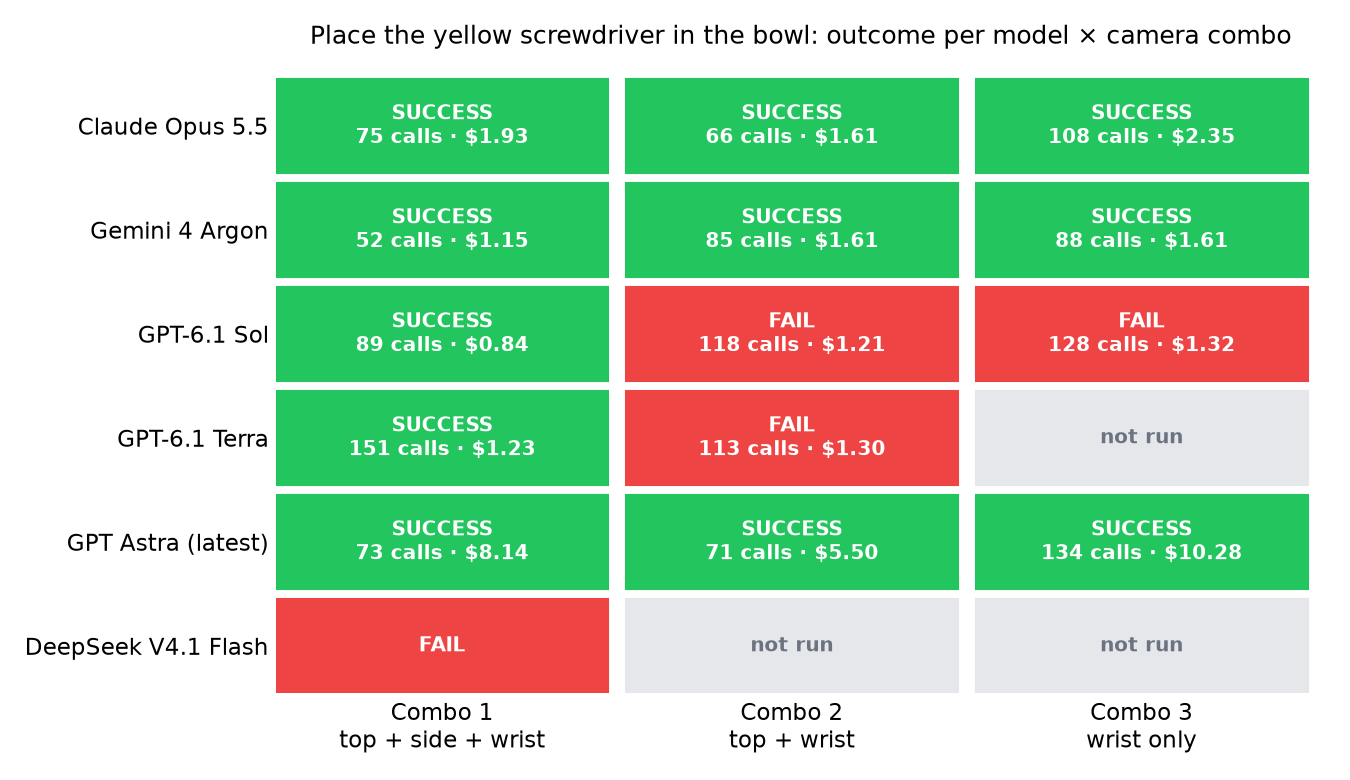
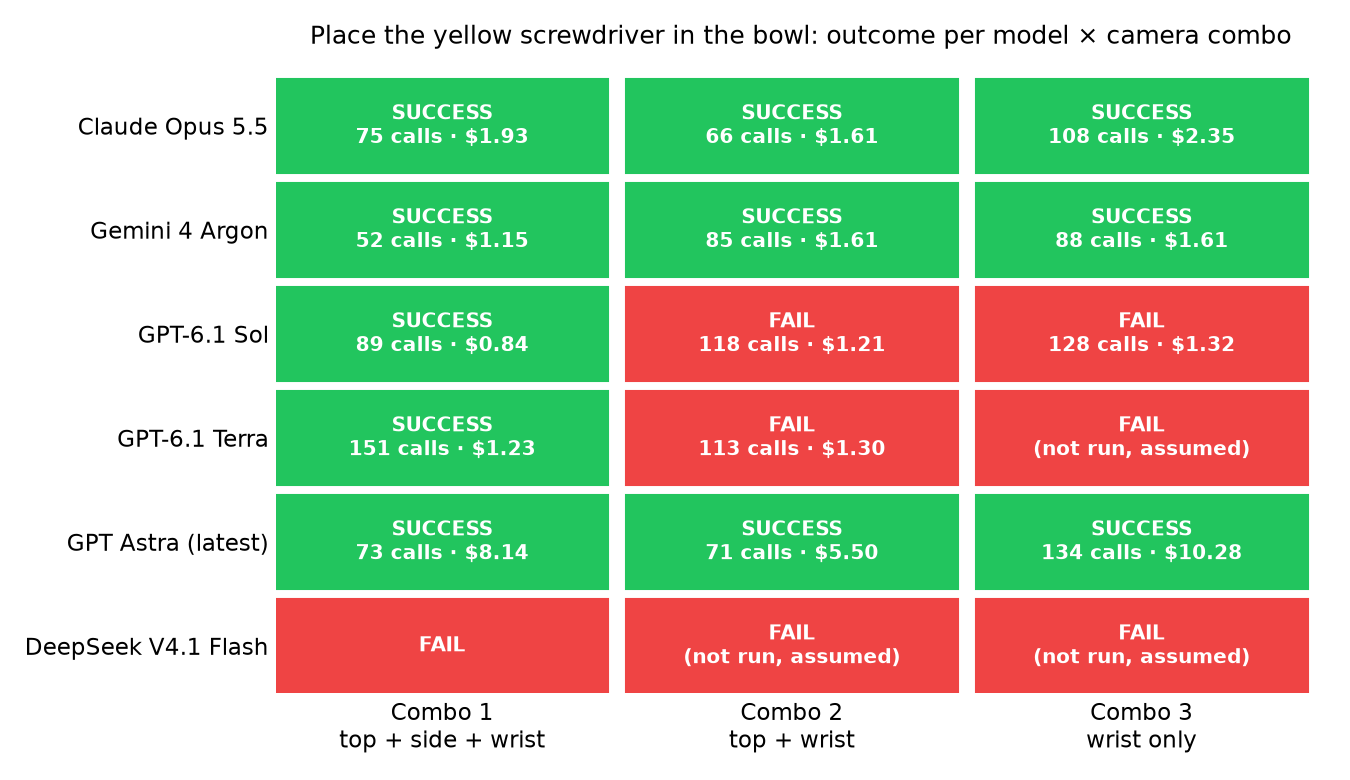
Score unrun combos as fails (Terra c3, DeepSeek c2/c3)

Changed region(s): [[0.4356, 0.7692, 0.9956, 0.8923], [0.7156, 0.4923, 0.9956, 0.6462]]

diff --git a/analysis/make_charts.py b/analysis/make_charts.py
@@ -70,6 +70,8 @@ for i, m in enumerate(MODELS):
         st = o["outcome"] if o else "not_run"
         ax.add_patch(plt.Rectangle((j, len(MODELS) - 1 - i), 0.95, 0.9, color=cmap[st]))
         txt = {"success": "SUCCESS", "fail": "FAIL", "not_run": "not run"}[st]
+        if o and o.get("assumed"):
+            txt = "FAIL\n(not run, assumed)"
         r = results.get(o["run_id"]) if o and o["run_id"] else None
         sub = f"\n{r['llm_calls']} calls · ${r['cost_usd_official_list_price']:.2f}" if r else ""
         ax.text(j + 0.475, len(MODELS) - 1 - i + 0.45, txt + sub, ha="center", va="center",
@@ -83,10 +85,10 @@ fig.tight_layout(); fig.savefig(FIG / "01_outcome_matrix.png"); plt.close(fig)
 
 # ---------------------------------------------------------------- 2. success rate by combo
 fig, ax = plt.subplots(figsize=(8, 4.2))
-for incl, off, col, lab in ((False, -0.2, "#3B82F6", "5 models with logs (DeepSeek excluded)"), (True, 0.2, "#94A3B8", "incl. DeepSeek combo 1 (fail)")):
+for incl, off, col, lab in ((False, -0.2, "#3B82F6", "runs with logs only"), (True, 0.2, "#94A3B8", "all 6 models (unrun cells counted as fail)")):
     rates, ns = [], []
     for c in (1, 2, 3):
-        cs = [o for o in outcomes if o["combo"] == c and o["outcome"] != "not_run" and (incl or not o["model"].startswith("deepseek"))]
+        cs = [o for o in outcomes if o["combo"] == c and (incl or o["run_id"] in results)]
         rates.append(100 * sum(o["outcome"] == "success" for o in cs) / len(cs)); ns.append(len(cs))
     b = ax.bar(np.arange(3) + off, rates, 0.38, color=col, label=lab)
     for x, r, n in zip(np.arange(3) + off, rates, ns):
@@ -237,7 +239,7 @@ for o in outcomes:
                      f"{t['total_input']:,} ({t['cache_read']:,}) | {t['total_output']:,} ({t['reasoning']:,}) | "
                      f"${r['cost_usd_official_list_price']:.2f} | {active[o['run_id']]} | {o['grasp_attempts']} ({o['failed_grasps']}) |")
     else:
-        lines.append(f"| {LABEL[o['model']]} | {o['combo']} | {'❌ fail' if o['outcome'] == 'fail' else '— not run'} | — | — | — | — | — | — |")
+        lines.append(f"| {LABEL[o['model']]} | {o['combo']} | {'❌ fail (assumed, not run)' if o.get('assumed') else '❌ fail (no logs)'} | — | — | — | — | — | — |")
 (ROOT / "analysis" / "summary_table.md").write_text("\n".join(lines) + "\n")
 print("\n".join(lines))
 print("figures:", sorted(p.name for p in FIG.iterdir()))

diff --git a/README.md b/README.md
@@ -8,12 +8,12 @@
 ![Outcome matrix](docs/figures/01_outcome_matrix.png)
 
 ## TL;DR
-- **All three cameras worked best.** With top-down + side + wrist cameras, **5 of 5** models succeeded. With top + wrist, 3 of 5 did,
-  and with the wrist camera alone, 3 of 4. DeepSeek is excluded from these counts (only combo 1 was run, and it failed).
+- **All three cameras worked best.** Counting every unrun combo as a fail (operator rule), 6 models × 3 combos gives: top + side + wrist
+  **5 of 6** succeeded, top + wrist 3 of 6, and wrist only 3 of 6. Among runs that actually happened: 5/5, 3/5 and 3/4.
 - **Fewer cameras meant more failed grasps.** The average was 0.4 failed grasps per run with 3 cameras, 1.0 with 2, and **3.0** with the
   wrist only. LLM calls rose from about 88 to about 114 per run, and active time from about 17 to about 26 minutes.
 - **Claude Opus 5.5, Gemini 4 Argon and GPT Astra succeeded on all 3 combos.** GPT-6.1 Sol and Terra only succeeded with all three
-  cameras. DeepSeek V4.1 Flash (max effort) failed combo 1 by going past the 200-call budget (280 calls); its other combos were not run.
+  cameras. DeepSeek V4.1 Flash (max effort) failed combo 1 by going past the 200-call budget (280 calls); its other two combos were not run and count as fails.
 - **Cost:** the 14 logged runs cost **$40.08** at the providers' own list prices, using 94.9 M input tokens (mostly cached) and 0.32 M
   output tokens.
   - Gemini 4 Argon was the cheapest reliable model at $1.15–1.61 per run.
@@ -94,13 +94,13 @@ Each prompt asks the model to:
 | GPT-6.1 Sol | 3 | ❌ fail | 128 | 7,841,707 (7,741,198) | 29,019 (9,553) | $1.32 | 38.9 | 6 (6) |
 | GPT-6.1 Terra | 1 | ✅ success | 151 | 11,827,464 (11,413,587) | 28,152 (8,520) | $1.23 | 33.6 | 2 (1) |
 | GPT-6.1 Terra | 2 | ❌ fail | 113 | 10,526,238 (9,992,401) | 25,912 (8,027) | $1.30 | 14.2 | 2 (2) |
-| GPT-6.1 Terra | 3 | — not run | — | — | — | — | — | — |
+| GPT-6.1 Terra | 3 | ❌ fail (assumed, not run) | — | — | — | — | — | — |
 | GPT Astra (latest) | 1 | ✅ success | 73 | 5,524,890 (5,353,888) | 13,075 (3,605) | $8.14 | 14.9 | 1 (0) |
 | GPT Astra (latest) | 2 | ✅ success | 71 | 3,638,637 (3,548,317) | 16,459 (3,190) | $5.50 | 20.5 | 2 (1) |
 | GPT Astra (latest) | 3 | ✅ success | 134 | 7,856,235 (7,764,237) | 27,394 (11,089) | $10.28 | 28.8 | 5 (4) |
-| DeepSeek V4.1 Flash | 1 | ❌ fail (280 calls > 200 budget; folder not included) | — | — | — | — | — | — |
-| DeepSeek V4.1 Flash | 2 | — not run | — | — | — | — | — | — |
-| DeepSeek V4.1 Flash | 3 | — not run | — | — | — | — | — | — |
+| DeepSeek V4.1 Flash | 1 | ❌ fail (280 calls > 200 budget; no logs here) | — | — | — | — | — | — |
+| DeepSeek V4.1 Flash | 2 | ❌ fail (assumed, not run) | — | — | — | — | — | — |
+| DeepSeek V4.1 Flash | 3 | ❌ fail (assumed, not run) | — | — | — | — | — | — |
 
 **Column definitions**
 - **Input tokens:** fresh input + cache reads + cache writes.
@@ -113,13 +113,13 @@ Each prompt asks the model to:
 Per-run machine-readable data: [`analysis/results.csv`](analysis/results.csv), [`analysis/results.json`](analysis/results.json),
 [`analysis/outcomes.json`](analysis/outcomes.json), [`analysis/recordings.json`](analysis/recordings.json).
 
-**By camera combo** (5 models with logs; DeepSeek excluded)
+**By camera combo** (stats columns use only runs with logs; the last column counts unrun cells as fails)
 
-| Combo | Runs | Success | Mean LLM calls | Mean active min | Grasp attempts | Failed grasps / run | Median cost |
-|---|---:|---:|---:|---:|---:|---:|---:|
-| 1 · top + side + wrist | 5 | **5 (100%)** | 88 | 16.9 | 7 | **0.4** | $1.23 |
-| 2 · top + wrist | 5 | 3 (60%) | 91 | 19.1 | 9 | 1.0 | $1.61 |
-| 3 · wrist only | 4 | 3 (75%) | 114 | 26.1 | 15 | **3.0** | $1.98 |
+| Combo | Runs with logs | Success | Mean LLM calls | Mean active min | Grasp attempts | Failed grasps / run | Median cost | Success, all 6 cells (unrun = fail) |
+|---|---:|---:|---:|---:|---:|---:|---:|---:|
+| 1 · top + side + wrist | 5 | **5 (100%)** | 88 | 16.9 | 7 | **0.4** | $1.23 | 5 / 6 (83%) |
+| 2 · top + wrist | 5 | 3 (60%) | 91 | 19.1 | 9 | 1.0 | $1.61 | 3 / 6 (50%) |
+| 3 · wrist only | 4 | 3 (75%) | 114 | 26.1 | 15 | **3.0** | $1.98 | 3 / 6 (50%) |
 
 ![Effort by combo](docs/figures/12_effort_by_combo.png)
 
@@ -131,8 +131,8 @@ Per-run machine-readable data: [`analysis/results.csv`](analysis/results.csv), [
 | Gemini 4 Argon | 3 / 3 | 225 | $4.37 | **Zero failed grasps in every combo**; cheapest reliable model |
 | GPT Astra (latest) | 3 / 3 | 278 | $23.93 | Reliable but 4–6× the cost; most inventive tooling |
 | GPT-6.1 Sol | 1 / 3 | 335 | $3.36 | Cheapest success ($0.84, combo 1); failed both reduced-camera runs |
-| GPT-6.1 Terra | 1 / 2 | 264 | $2.53 | Highest call count of any success (151); combo 3 not run |
-| DeepSeek V4.1 Flash (max) | 0 / 1 | — | — | Combo 1 exceeded the call budget; combos 2 and 3 not run |
+| GPT-6.1 Terra | 1 / 3 | 264 | $2.53 | Highest call count of any success (151); combo 3 not run, counted as fail |
+| DeepSeek V4.1 Flash (max) | 0 / 3 | — | — | Combo 1 exceeded the call budget; combos 2 and 3 not run, counted as fails |
 
 ### More charts
 | | |
@@ -255,7 +255,7 @@ Things that went wrong during the experiment, so the results can be read honestl
    the prompt.
 7. **Reasoning effort is not identical.** DeepSeek ran at **max**, all others at medium.
 8. **Sample size is 1 run per cell.** The camera trend is consistent across metrics, but the cells are single runs.
-9. **Not run / not included.** Terra combo 3 and DeepSeek combos 2 and 3 were not run. The DeepSeek combo-1 folder was left out because its
+9. **Not run / not included.** Terra combo 3 and DeepSeek combos 2 and 3 were not run and are scored as fails by rule. The DeepSeek combo-1 folder was left out because its
    session export is 228 MB and I did not review it; it can be added. Only the latest run per model × combo is included; superseded
    attempts are not.
 10. **Outcome verification.** Outcomes are verified from images (final recorded frame, or the model's final still). The models'

diff --git a/analysis/summary_table.md b/analysis/summary_table.md
@@ -11,10 +11,10 @@
 | GPT-6.1 Sol | 3 | ❌ fail | 128 | 7,841,707 (7,741,198) | 29,019 (9,553) | $1.32 | 38.9 | 6 (6) |
 | GPT-6.1 Terra | 1 | ✅ success | 151 | 11,827,464 (11,413,587) | 28,152 (8,520) | $1.23 | 33.6 | 2 (1) |
 | GPT-6.1 Terra | 2 | ❌ fail | 113 | 10,526,238 (9,992,401) | 25,912 (8,027) | $1.30 | 14.2 | 2 (2) |
-| GPT-6.1 Terra | 3 | — not run | — | — | — | — | — | — |
+| GPT-6.1 Terra | 3 | ❌ fail (assumed, not run) | — | — | — | — | — | — |
 | GPT Astra (latest) | 1 | ✅ success | 73 | 5,524,890 (5,353,888) | 13,075 (3,605) | $8.14 | 14.9 | 1 (0) |
 | GPT Astra (latest) | 2 | ✅ success | 71 | 3,638,637 (3,548,317) | 16,459 (3,190) | $5.50 | 20.5 | 2 (1) |
 | GPT Astra (latest) | 3 | ✅ success | 134 | 7,856,235 (7,764,237) | 27,394 (11,089) | $10.28 | 28.8 | 5 (4) |
-| DeepSeek V4.1 Flash | 1 | ❌ fail | — | — | — | — | — | — |
-| DeepSeek V4.1 Flash | 2 | — not run | — | — | — | — | — | — |
-| DeepSeek V4.1 Flash | 3 | — not run | — | — | — | — | — | — |
+| DeepSeek V4.1 Flash | 1 | ❌ fail (no logs) | — | — | — | — | — | — |
+| DeepSeek V4.1 Flash | 2 | ❌ fail (assumed, not run) | — | — | — | — | — | — |
+| DeepSeek V4.1 Flash | 3 | ❌ fail (assumed, not run) | — | — | — | — | — | — |

diff --git a/docs/RUN_NARRATIVES.md b/docs/RUN_NARRATIVES.md
@@ -128,7 +128,7 @@ supplied `NexArm.stp` CAD file — at most a few read its header.
 
 ---
 
-## GPT-6.1 Terra (medium) — combo 3 not run
+## GPT-6.1 Terra (medium) — combo 3 not run (scored as fail)
 
 ### Combo 1 — top + side + wrist · ✅ success · 151 calls · $1.23 · 2 grasps, 1 failed
 - **Setup.** Its desktop captures first showed the wrong window: Chrome had no visible window and Preview was in front (Calls 6–19).
@@ -192,7 +192,7 @@ supplied `NexArm.stp` CAD file — at most a few read its header.
 
 ## DeepSeek V4.1 Flash 1017 (max) — combo 1 only
 - **Outcome.** Combo 1 failed: the session ran to **280 LLM calls**, past the 200-call budget ($0.83 at opencode's reported price).
-  Combos 2 and 3 were not run.
+  Combos 2 and 3 were not run (scored as fails by rule).
 - **Routing.** Runs were pinned to the Together / Fireworks / Baseten OpenRouter endpoints, because the DeepSeek first-party endpoint is
   blocked by the account's data-policy setting.
 - **Not in this repo.** The combo-1 run folder was left out (228 MB session export, not reviewed).
